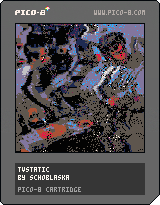
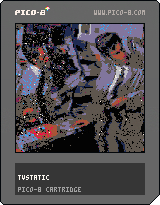
tweak tvstatic

Changed region(s): [[0.0938, 0.1171, 0.9062, 0.761], [0.0938, 0.7902, 0.4375, 0.878]]

diff --git a/docs/tvstatic.js b/docs/tvstatic.js
@@ -68,23 +68,23 @@ var _cartdat=[
 0,0,0,0,0,0,0,0,0,0,0,0,0,0,0,0,0,16,0,0,0,0,0,0,0,0,0,0,0,0,0,0,0,0,0,0,0,0,0,0,0,0,0,0,0,0,0,0,0,0,0,0,0,0,0,0,0,0,0,0,0,0,0,0,0,0,0,0,0,0,0,0,0,0,0,0,0,0,0,0,0,0,0,0,0,16,0,0,0,0,0,0,0,0,0,0,0,0,0,0,0,0,0,0,0,0,0,0,0,0,0,0,0,0,0,0,0,0,0,0,0,0,0,0,0,0,0,0,0,0,0,0,0,0,0,0,0,0,0,0,0,0,0,0,0,0,0,0,0,0,0,0,0,16,0,0,0,0,0,0,0,0,0,0,0,0,0,0,0,0,0,0,0,0,0,0,0,0,0,0,0,0,0,0,0,0,0,0,0,0,0,0,0,0,0,0,0,0,0,0,0,0,0,0,0,0,0,0,0,0,0,0,0,0,0,0,0,0,0,0,0,16,0,0,0,0,0,0,0,0,0,0,0,0,0,0,0,0,0,0,0,0,0,0,0,0,0,0,0,0,0,0,0,0,0,0,
 0,0,0,0,0,0,0,0,0,0,0,0,0,0,0,0,0,0,0,0,0,0,0,0,0,0,0,0,0,0,0,0,0,16,0,0,0,0,0,0,0,0,0,0,0,0,0,0,0,0,0,0,0,0,0,0,0,0,0,0,0,0,0,0,0,0,0,0,0,0,0,0,0,0,0,0,0,0,0,0,0,0,0,0,0,0,0,0,0,0,0,0,0,0,0,0,0,0,0,0,0,16,0,0,0,0,0,0,0,0,0,0,0,0,0,0,0,0,0,0,0,0,0,0,0,0,0,0,0,0,0,0,0,0,0,0,0,0,0,0,0,0,0,0,0,0,0,0,0,0,0,0,0,0,0,0,0,0,0,0,0,0,0,0,0,0,0,0,0,16,0,0,0,0,0,0,0,0,0,0,0,0,0,0,0,0,0,0,0,0,0,0,0,0,0,0,0,0,0,0,0,0,0,0,0,0,0,0,0,0,0,0,0,0,0,0,0,0,0,0,0,0,0,0,0,0,0,0,0,0,0,0,0,0,0,0,0,16,0,0,0,0,0,0,0,0,0,0,0,0,0,0,0,0,0,0,
 0,0,0,0,0,0,0,0,0,0,0,0,0,0,0,0,0,0,0,0,0,0,0,0,0,0,0,0,0,0,0,0,0,0,0,0,0,0,0,0,0,0,0,0,0,0,0,0,0,16,0,0,0,0,0,0,0,0,0,0,0,0,0,0,0,0,0,0,0,0,0,0,0,0,0,0,0,0,0,0,0,0,0,0,0,0,0,0,0,0,0,0,0,0,0,0,0,0,0,0,0,0,0,0,0,0,0,0,0,0,0,0,0,0,0,0,0,16,0,0,0,0,0,0,0,0,0,0,0,0,0,0,0,0,0,0,0,0,0,0,0,0,0,0,0,0,0,0,0,0,0,0,0,0,0,0,0,0,0,0,0,0,0,0,0,0,0,0,0,0,0,0,0,0,0,0,0,0,0,0,0,0,0,0,0,16,0,0,0,0,0,0,0,0,0,0,0,0,0,0,0,0,0,0,0,0,0,0,0,0,0,0,0,0,0,0,0,0,0,0,0,0,0,0,0,0,0,0,0,0,0,0,0,0,0,0,0,0,0,0,0,0,0,0,0,0,0,0,0,0,0,0,0,16,0,0,
-0,112,120,97,45,97,16,8,235,193,226,35,60,195,43,36,71,23,199,223,61,225,133,187,95,162,12,171,235,223,32,123,129,54,123,129,36,13,238,127,135,71,104,251,62,142,242,243,163,166,168,46,57,165,237,2,163,116,146,161,142,120,129,240,5,116,194,21,191,66,210,183,153,82,144,213,180,194,255,53,239,16,61,132,166,208,192,200,136,143,130,160,204,6,174,186,105,192,2,103,221,117,157,9,253,78,9,18,221,16,9,114,53,129,138,65,24,206,108,76,180,247,244,221,200,125,105,85,28,22,20,246,233,242,37,171,84,71,21,138,2,22,24,8,76,34,90,110,73,115,103,193,200,86,189,211,68,234,199,123,83,47,49,182,81,38,147,101,185,17,110,77,212,50,40,26,161,214,95,248,16,225,76,127,100,241,22,139,137,129,222,224,182,197,226,21,252,162,97,20,189,198,166,35,214,28,143,192,113,83,142,71,224,184,11,29,143,192,17,106,194,39,250,178,81,19,190,209,241,40,28,119,164,227,81,57,238,74,199,67,77,124,195,190,76,180,137,207,116,60,42,199,141,56,30,141,
-227,230,29,15,109,242,13,249,178,85,58,30,119,60,50,199,141,57,30,153,227,214,29,15,165,3,89,165,129,25,27,141,87,155,131,141,242,122,229,85,150,226,29,17,10,209,41,9,246,136,46,204,46,172,76,237,12,20,141,1,102,86,178,44,75,170,160,216,169,146,166,241,66,101,129,206,38,14,207,70,19,84,85,97,137,46,168,138,44,234,130,74,35,40,9,26,217,128,1,35,52,77,84,88,64,66,32,19,22,112,142,142,72,81,168,136,42,11,20,129,126,152,57,146,46,82,8,145,29,41,130,100,163,234,180,7,212,7,102,186,44,147,12,181,145,23,21,9,138,98,165,73,172,147,118,129,126,136,188,64,19,8,152,84,98,36,157,250,72,162,62,146,72,142,35,9,68,204,19,57,67,128,44,210,36,136,2,253,163,196,18,85,37,102,18,164,137,126,137,25,118,164,143,50,241,113,249,68,179,40,48,146,55,170,42,209,55,82,21,136,132,67,154,204,96,86,208,31,159,213,229,108,155,4,141,25,139,72,63,72,79,160,141,52,84,244,203,105,117,57,127,90,102,26,14,162,
-37,133,236,73,162,63,22,20,250,227,119,147,72,163,163,137,244,199,20,96,18,221,39,69,23,37,148,70,127,217,229,46,162,196,122,186,103,65,96,164,66,63,44,10,164,67,140,160,31,110,179,5,154,18,85,96,77,1,168,164,138,124,84,232,78,21,161,126,168,254,115,82,233,135,199,49,246,104,204,170,219,36,68,149,20,85,88,56,35,48,136,136,67,218,134,210,85,93,22,107,216,104,193,71,230,193,121,234,105,69,34,65,80,38,133,114,160,11,66,39,133,129,254,120,52,176,229,48,2,1,75,247,52,86,208,145,137,84,44,132,67,84,160,146,172,112,145,48,141,62,83,82,9,22,107,109,36,141,52,181,90,84,83,202,168,53,2,82,65,21,233,135,165,133,108,142,76,158,70,172,11,34,153,40,59,106,76,84,94,144,175,8,108,225,140,34,210,207,169,58,17,139,170,85,151,10,213,247,41,127,166,159,156,73,97,73,241,148,170,111,101,215,234,31,121,64,63,68,27,69,99,68,190,31,66,35,114,228,176,142,170,83,153,170,198,149,26,138,81,32,63,215,73,159,199,104,
-157,176,170,132,151,22,159,132,143,126,142,252,148,126,88,26,165,162,50,81,38,112,164,159,14,129,158,46,81,244,148,253,137,154,72,63,40,210,15,50,65,208,233,143,199,99,242,239,144,95,145,230,135,106,141,89,42,249,49,107,20,109,97,176,174,139,132,213,186,86,200,127,141,200,78,227,157,78,124,43,41,34,31,9,191,185,32,237,12,102,143,10,50,194,130,160,81,144,14,154,46,146,143,83,191,171,178,160,202,244,3,85,111,146,40,75,180,55,50,103,232,143,72,191,41,208,171,45,36,107,12,215,201,103,168,113,104,66,248,68,63,12,189,130,228,59,45,160,240,18,182,137,124,62,52,126,244,95,131,72,115,43,244,137,246,85,146,168,223,22,89,81,5,194,185,77,32,96,29,213,93,150,105,114,166,74,42,153,156,72,168,253,147,118,170,63,93,87,4,10,122,44,20,168,30,211,36,234,221,5,25,133,202,39,86,236,22,146,21,250,103,42,48,157,81,80,38,36,44,3,139,37,141,153,100,248,2,253,96,217,36,221,136,40,42,108,34,186,209,102,250,97,65,40,223,143,
-44,82,226,145,255,135,126,144,254,146,20,69,17,100,94,73,50,37,162,42,104,84,248,244,11,229,179,52,122,18,253,240,21,242,241,136,2,179,68,50,56,97,165,101,210,68,242,223,194,98,194,143,248,25,158,36,104,228,183,245,99,4,118,84,53,164,175,226,50,210,159,214,76,18,250,21,176,135,78,78,35,128,155,201,231,72,240,216,4,219,67,186,38,51,112,164,25,29,233,103,139,206,36,137,28,163,41,186,66,164,73,228,164,17,176,245,73,24,87,133,78,161,123,0,34,92,66,63,81,32,95,90,169,185,86,10,248,112,104,34,158,38,245,36,198,31,153,27,1,90,225,165,164,211,95,213,78,53,161,202,86,64,49,161,14,85,176,17,247,12,132,247,10,31,249,34,242,66,87,68,153,10,103,33,108,36,87,235,193,172,106,2,211,88,70,248,68,162,72,136,40,8,172,165,63,167,133,149,73,183,207,168,9,193,5,179,107,8,66,4,53,2,114,145,104,74,214,101,157,140,86,80,232,231,169,64,123,48,43,8,58,204,27,48,34,18,38,110,17,203,145,95,201,186,40,45,
-26,9,123,86,1,131,132,175,34,240,240,72,179,168,104,36,149,171,66,229,46,185,140,170,16,209,131,23,241,38,102,17,217,17,32,41,197,149,10,5,148,162,202,68,180,138,50,236,170,78,74,71,63,176,67,239,112,26,49,16,48,116,30,123,8,49,164,80,32,192,80,133,157,4,125,84,194,225,241,69,25,66,135,163,10,50,9,43,9,156,166,237,40,36,48,197,144,64,250,9,175,13,171,44,208,240,149,161,116,2,199,135,128,139,152,64,75,168,227,196,0,98,161,136,251,145,4,34,222,105,162,8,23,90,136,126,131,252,208,100,133,18,79,39,61,21,117,250,227,143,184,154,52,141,248,147,79,196,232,146,38,16,225,22,32,83,175,159,211,154,78,0,29,133,193,124,32,224,210,136,224,6,153,4,108,73,176,225,11,13,35,33,169,235,163,252,34,39,164,63,168,226,15,10,16,73,43,9,109,131,3,184,66,4,208,194,38,144,158,179,64,20,24,69,250,39,16,241,245,137,134,77,2,224,225,161,46,193,74,65,202,11,73,164,198,148,4,133,81,4,140,58,147,232,39,149,
-102,136,50,22,22,127,212,58,194,146,93,2,249,56,68,68,3,194,68,154,88,1,165,9,195,10,164,195,212,88,66,254,15,167,136,254,172,72,168,33,73,81,234,208,136,95,164,2,42,73,148,100,24,21,14,9,251,67,46,39,9,108,23,102,146,90,29,6,12,9,193,164,65,71,51,98,98,22,190,136,244,199,207,180,236,2,97,71,29,47,12,20,81,32,80,145,9,74,12,25,42,144,60,164,203,32,34,252,214,44,137,109,39,16,147,72,6,36,165,18,86,16,149,141,64,69,221,24,44,210,15,63,165,70,208,107,12,16,66,75,57,54,41,14,221,31,115,200,248,37,73,154,130,100,120,108,30,5,252,168,87,101,46,9,29,160,219,19,104,40,181,82,4,9,124,138,199,168,141,130,83,145,105,120,103,6,210,192,66,249,144,172,83,241,211,31,18,95,159,151,149,70,56,54,48,148,123,104,171,66,209,166,203,92,81,166,101,25,203,96,169,24,85,0,55,190,196,103,154,61,26,158,89,34,103,199,64,65,89,161,28,213,216,160,168,76,98,3,2,28,55,66,132,207,57,236,
-51,82,139,17,37,165,87,130,194,41,14,105,170,164,144,63,127,12,147,53,65,99,188,140,130,196,212,203,92,33,159,34,228,17,33,88,160,126,168,2,62,11,241,67,237,228,182,9,172,36,58,146,84,24,36,156,85,9,132,143,41,232,55,72,50,67,42,247,16,104,96,83,136,142,148,69,230,142,134,3,5,245,146,21,252,41,30,85,168,167,159,161,122,250,231,242,170,167,163,80,79,255,149,168,167,71,125,221,234,201,161,122,250,255,255,103,167,158,254,255,97,0,113,170,167,191,157,122,250,255,159,137,240,154,22,76,20,49,0,89,38,204,19,201,176,32,228,168,120,255,35,87,35,139,43,93,255,159,226,235,191,26,241,245,255,255,223,74,186,254,255,163,158,31,241,245,255,191,165,235,127,21,129,248,250,255,255,87,80,52,226,235,111,35,190,62,237,247,137,175,75,52,15,64,68,248,127,80,0,199,17,93,108,5,61,143,136,187,195,103,165,32,18,213,22,175,230,199,81,241,151,86,0,35,19,127,72,2,242,28,167,15,213,33,162,44,45,109,35,217,89,37,250,65,106,95,
-134,144,14,241,138,242,70,39,251,19,224,171,184,10,229,157,76,251,199,52,77,201,153,100,30,144,218,72,202,48,10,224,133,24,126,133,42,112,14,119,214,21,246,97,22,162,4,57,9,3,25,40,237,156,170,174,162,176,86,163,40,178,38,1,87,81,241,246,42,255,148,186,180,117,215,5,0,66,24,100,92,67,34,225,227,5,163,136,70,10,168,79,182,4,220,3,149,137,26,242,34,137,204,146,69,137,250,98,75,175,162,228,36,86,5,218,251,137,82,113,175,170,97,195,65,237,61,95,84,97,35,153,100,14,124,34,193,95,226,74,117,80,191,60,73,22,233,135,146,66,97,208,4,49,63,18,37,170,47,177,73,226,42,43,34,129,189,44,208,95,143,37,26,253,119,116,90,93,4,81,82,201,223,4,210,44,69,145,73,48,182,186,138,152,35,42,101,85,249,167,50,147,104,150,80,71,66,48,101,226,31,97,39,255,132,191,100,140,83,168,239,148,234,117,10,210,72,83,89,47,144,125,41,253,35,186,21,70,202,13,129,190,76,144,136,76,53,58,75,84,33,36,216,41,53,209,
-36,161,126,152,95,4,7,186,178,42,149,208,240,169,172,169,50,250,26,143,130,151,128,178,32,139,123,4,121,155,144,159,10,3,1,54,97,142,38,74,18,131,73,87,101,105,151,20,188,73,30,249,158,38,242,19,54,137,241,3,145,204,81,160,31,100,8,120,13,212,216,150,111,143,21,248,151,88,157,170,169,188,80,89,65,57,36,73,187,14,136,72,100,113,178,78,252,255,243,68,87,74,86,153,47,148,191,82,58,75,2,254,45,148,213,18,249,35,255,113,25,169,168,136,143,204,174,97,96,42,248,25,82,89,241,64,215,20,81,19,168,214,207,224,178,254,188,17,218,76,127,39,164,109,34,1,19,124,42,63,188,142,132,44,203,67,190,34,128,94,170,5,83,84,226,155,97,34,178,8,111,227,151,254,248,8,161,208,18,154,59,97,35,67,164,31,40,128,68,222,226,135,126,176,0,87,215,136,83,241,83,96,211,72,15,70,141,72,44,121,7,9,142,171,115,110,19,90,67,222,38,18,37,211,156,82,175,104,74,0,31,84,43,237,34,253,235,138,82,140,34,234,21,13,149,86,
-244,120,36,95,170,64,63,39,45,195,162,225,39,66,252,42,75,162,128,23,72,3,193,169,34,176,147,182,15,203,149,16,88,80,21,232,103,233,7,148,73,140,46,99,73,100,208,70,38,174,76,205,228,30,55,164,206,234,178,162,112,141,234,70,152,6,169,254,80,81,20,90,4,133,175,74,251,148,34,134,148,91,20,53,132,53,34,121,37,213,83,53,250,129,242,29,149,238,79,16,68,145,85,146,68,217,71,205,73,147,70,239,75,126,70,218,168,179,139,102,98,149,133,46,137,144,121,36,109,228,251,178,192,56,98,83,89,98,160,66,193,76,48,163,147,72,32,239,178,2,119,71,202,68,250,42,160,110,66,249,31,9,18,21,6,245,36,68,35,132,160,192,206,11,133,126,82,97,138,180,10,203,32,210,9,202,248,141,12,28,198,50,39,248,64,162,175,83,62,146,154,212,44,204,236,74,39,35,85,162,165,196,43,67,9,60,9,149,10,82,141,230,63,100,56,51,1,39,118,31,87,150,180,214,106,148,158,36,111,232,53,36,97,249,49,201,125,56,153,90,74,157,93,101,24,104,
-232,144,54,112,132,250,78,32,178,47,155,87,241,198,58,145,58,158,64,94,210,160,104,176,228,83,38,178,79,253,253,127,13,229,24,235,122,170,61,21,228,30,126,184,153,235,204,43,174,217,112,78,89,211,40,177,68,137,198,57,240,149,252,208,15,23,177,132,217,75,194,166,74,19,27,53,22,178,85,18,5,21,125,155,11,128,75,2,77,97,198,54,201,116,96,212,95,128,122,196,3,194,25,101,224,5,174,9,108,50,17,114,54,141,48,14,21,6,53,242,27,122,37,178,80,208,37,36,168,67,161,69,73,171,209,149,200,37,203,161,6,93,16,58,42,241,102,144,208,91,169,0,6,254,8,182,46,8,52,171,16,78,164,44,1,164,84,167,71,38,163,43,117,94,10,96,42,170,138,66,250,49,80,223,82,225,168,2,9,161,70,236,74,179,71,253,43,80,137,83,233,40,229,85,88,131,12,186,76,162,36,212,15,198,63,179,72,66,45,235,196,183,66,237,32,8,31,172,154,40,208,175,84,253,171,154,218,3,93,16,87,101,171,197,147,56,64,126,67,127,169,236,212,71,130,18,
-158,206,147,36,77,212,74,219,121,3,23,73,244,83,100,95,144,145,44,229,47,195,72,99,207,25,26,72,2,248,41,155,36,208,156,212,247,202,234,48,40,10,253,48,107,168,184,104,57,65,106,57,130,68,255,89,207,163,173,58,124,47,22,144,114,139,122,77,151,192,100,97,16,20,9,125,156,91,133,30,89,154,232,241,71,12,83,134,39,195,82,33,57,150,34,234,26,124,51,159,211,17,198,206,81,246,78,10,157,60,122,57,105,40,195,72,92,165,82,133,145,175,164,247,241,22,137,115,60,171,174,210,4,86,13,162,8,15,76,25,61,156,78,79,20,117,228,80,158,34,146,237,137,138,164,48,80,168,31,68,98,70,69,167,159,12,127,229,147,203,104,27,65,75,253,27,17,151,186,10,133,162,136,235,72,142,170,235,244,195,67,63,231,45,147,4,30,139,27,229,45,45,170,34,147,163,161,99,49,253,149,160,192,255,82,33,243,105,198,240,139,161,242,79,20,132,65,14,14,40,136,134,198,96,40,51,118,161,91,132,56,91,152,69,4,164,162,72,70,138,102,166,138,232,1,161,
-89,29,81,9,168,214,155,45,147,28,48,50,159,41,135,174,174,84,115,152,139,50,85,214,123,165,142,0,53,34,92,168,30,64,107,40,121,197,125,232,41,6,52,68,138,106,19,14,209,235,134,189,110,143,16,209,70,178,160,183,221,132,94,104,182,228,253,127,115,222,98,27,244,77,75,144,184,249,2,55,18,59,42,111,162,78,109,42,150,19,158,209,4,75,101,72,20,195,213,137,35,8,141,71,233,68,54,33,175,15,72,234,237,64,176,112,94,237,180,154,209,32,209,65,136,55,187,173,189,153,214,84,145,46,177,91,250,226,74,179,106,23,42,148,115,99,98,38,169,56,24,69,156,193,92,141,96,168,212,161,156,241,76,190,30,47,109,1,71,18,53,163,172,45,204,120,252,255,150,60,94,205,240,111,205,227,89,245,248,85,232,137,191,123,145,252,75,101,33,217,128,85,11,173,54,35,187,22,221,181,208,148,133,90,181,144,192,131,169,31,66,15,134,94,79,235,241,104,132,164,30,172,244,195,50,11,117,34,67,22,136,210,180,212,31,106,45,36,113,62,41,243,79,198,92,210,
-231,150,61,77,189,145,122,252,146,66,111,34,58,126,8,143,59,241,248,63,141,85,161,145,214,227,21,27,87,151,13,234,191,175,31,11,38,182,54,136,41,61,116,153,94,162,76,127,196,195,15,129,13,57,154,141,189,177,157,209,161,73,117,152,33,149,240,47,80,9,247,8,201,166,27,50,211,31,225,191,167,136,210,160,109,65,47,93,27,26,81,210,111,134,130,214,180,13,173,24,63,109,168,59,135,134,211,126,214,132,218,132,158,68,197,191,137,172,124,138,253,141,229,42,14,54,164,253,183,39,237,255,67,48,60,202,190,162,126,131,138,225,223,146,192,184,148,185,231,211,108,98,165,203,22,245,110,66,155,204,202,121,115,66,248,68,200,79,173,241,127,73,208,104,122,26,82,67,205,147,58,31,26,37,91,3,161,170,65,216,85,171,50,237,87,40,28,190,186,157,214,65,137,165,2,218,225,129,22,28,194,175,89,171,67,217,224,80,245,23,221,195,62,147,15,59,53,31,38,153,112,21,228,160,54,29,154,103,183,89,23,163,61,162,30,27,138,212,71,69,2,182,20,210,219,9,
-169,79,152,104,70,157,101,124,97,200,40,194,197,51,105,151,72,143,222,42,223,34,62,94,93,241,255,220,210,21,255,161,78,254,255,86,122,209,36,94,218,85,69,77,2,69,203,129,185,129,178,88,146,105,95,145,100,145,56,252,47,65,92,41,140,41,21,119,4,42,238,151,24,58,20,131,117,223,255,83,182,29,238,230,255,20,15,4,185,75,132,107,36,49,58,165,143,160,43,179,145,49,101,135,233,153,161,85,125,245,255,82,240,30,17,56,18,107,191,4,199,127,238,10,142,119,84,111,252,255,255,255,255,163,47,94,1,189,86,244,100,94,246,204,218,123,123,190,147,65,255,4,236,207,93,121,123,168,84,202,154,167,21,16,255,207,64,64,252,223,184,2,249,255,74,177,255,163,143,80,167,203,113,190,241,14,175,172,8,161,204,220,176,33,224,17,108,111,205,206,66,83,200,150,34,212,232,164,41,214,154,11,22,23,142,72,49,102,29,88,24,88,117,113,185,181,13,153,202,40,17,162,32,147,40,248,72,124,84,77,224,132,2,109,214,43,112,43,28,158,53,229,190,164,186,66,
-216,107,214,37,102,143,74,17,0,0,0,0,0,0,0,0,0,0,0,0,0,0,0,0,0,0,0,0,0,0,0,0,0,0,0,0,0,0,0,0,0,0,0,0,0,0,0,0,0,0,0,0,0,0,0,0,0,0,0,0,0,0,0,0,0,0,0,0,0,0,0,0,0,0,0,0,0,0,0,0,0,0,0,0,0,0,0,0,0,0,0,0,0,0,0,0,0,0,0,0,0,0,0,0,0,0,0,0,0,0,0,0,0,0,0,0,0,0,0,0,0,0,0,0,0,0,0,0,0,0,0,0,0,0,0,0,0,0,0,0,0,0,0,0,0,0,0,0,0,0,0,0,0,0,0,0,0,0,0,0,0,0,0,0,0,0,0,0,0,0,0,0,0,0,0,0,0,0,0,0,0,0,0,0,0,0,0,0,0,0,0,0,0,0,0,0,0,0,0,0,0,0,0,0,0,0,0,0,0,0,0,0,0,0,0,0,0,0,0,0,0,0,0,0,0,0,0,0,0,0,0,0,0,0,0,0,0,0,0,0,0,0,0,0,0,0,0,0,0,0,0,0,0,0,0,0,
+0,112,120,97,45,95,16,8,233,122,176,248,8,207,240,10,201,209,197,241,119,123,229,238,151,8,187,232,250,55,200,94,32,205,94,32,201,131,251,223,225,17,218,190,143,163,252,252,168,41,170,75,78,105,187,192,40,157,100,168,35,94,32,124,1,157,112,197,175,144,244,109,166,20,100,53,173,240,127,205,59,68,15,161,41,52,48,50,226,163,32,40,179,129,171,110,26,176,192,89,119,93,103,66,191,83,130,68,55,68,130,92,77,160,98,16,134,51,27,19,237,61,125,55,114,95,90,21,135,5,133,125,186,124,201,42,213,81,133,162,128,5,6,2,147,136,150,91,210,220,89,48,178,85,239,52,145,250,241,222,212,75,140,109,148,201,100,89,110,132,91,19,181,12,138,70,168,245,23,62,68,56,211,31,89,188,197,98,98,160,55,184,109,177,120,5,191,104,24,69,175,177,233,136,53,199,35,112,220,148,227,17,56,238,66,199,35,112,132,154,240,137,190,108,212,132,111,116,60,10,199,29,233,120,84,142,187,210,241,80,19,223,176,47,19,109,226,51,29,143,202,113,35,142,71,227,
+184,121,199,67,155,124,67,190,108,149,142,199,29,143,204,113,99,142,71,230,184,117,199,67,233,64,86,105,96,198,70,227,213,230,96,163,188,94,121,149,165,120,71,132,66,116,74,130,61,162,11,179,11,43,83,59,3,69,99,128,153,149,44,203,146,42,40,118,170,164,105,188,80,89,160,179,137,195,179,209,4,85,85,88,162,11,170,34,139,186,160,210,8,74,130,70,54,96,192,8,77,19,21,22,144,16,200,132,5,156,163,35,82,20,42,162,202,2,69,160,31,102,142,164,139,20,66,100,71,138,32,217,168,58,237,1,245,129,153,46,203,36,67,109,228,69,69,130,162,88,105,18,235,164,93,160,31,34,47,208,4,2,38,149,24,73,167,62,146,168,143,36,146,227,72,2,17,243,68,206,16,32,139,52,9,162,64,255,40,177,68,85,137,153,4,105,162,95,98,134,29,233,163,76,124,92,62,209,44,10,140,228,141,170,74,244,141,84,5,34,225,144,38,51,152,21,244,199,103,117,57,219,38,65,99,198,34,210,15,210,19,104,35,13,21,253,114,90,93,206,159,150,153,134,131,104,
+73,33,123,146,232,143,5,133,254,248,221,36,210,232,104,34,253,49,5,152,68,247,73,209,69,9,165,209,95,118,185,139,40,177,158,238,89,16,24,169,208,15,139,2,233,16,35,232,135,219,108,129,166,68,21,88,83,0,42,169,34,31,21,186,83,69,168,31,170,255,156,84,250,225,113,140,61,26,179,234,54,9,81,37,69,21,22,206,8,12,34,226,144,182,161,116,85,151,197,26,54,90,240,145,121,112,158,122,90,145,72,16,148,73,161,28,232,130,208,73,97,160,63,30,13,108,57,140,64,192,210,61,141,21,116,100,34,21,11,225,16,21,168,36,43,92,36,76,163,207,148,84,130,197,90,27,73,35,77,173,22,213,148,50,106,141,128,84,80,69,250,97,105,33,155,35,147,167,17,235,130,72,38,202,142,26,19,149,23,228,43,2,91,56,163,136,244,115,170,78,196,162,106,213,165,66,245,125,202,159,233,39,103,82,88,82,60,165,234,91,217,181,250,71,30,208,15,209,70,209,24,145,239,135,208,136,28,57,172,163,234,84,166,170,113,165,134,98,20,200,207,117,210,231,49,90,
+39,172,42,225,165,197,39,225,163,159,35,63,165,31,150,70,169,168,76,148,9,28,233,167,67,160,167,75,20,61,101,127,162,38,210,15,138,244,131,76,16,116,250,227,241,152,252,59,228,87,164,249,161,90,99,150,74,126,204,26,69,91,24,172,235,34,97,181,174,21,242,95,35,178,211,120,167,19,223,74,138,200,71,194,111,46,72,59,131,217,163,130,140,176,32,104,20,164,131,166,139,228,227,212,239,170,44,168,50,253,64,213,155,36,202,18,237,141,204,25,250,35,210,111,10,244,106,11,201,26,195,117,242,25,106,28,154,16,62,209,15,67,175,32,249,78,11,40,188,132,109,34,159,15,141,31,253,215,32,210,220,10,125,162,125,149,36,234,183,69,86,84,129,112,110,19,8,88,71,117,151,101,154,156,169,146,74,38,39,18,106,255,164,157,234,79,215,21,129,130,30,11,5,170,199,52,137,122,119,65,70,161,242,137,21,187,133,100,133,254,153,10,76,103,20,148,9,9,203,192,98,73,99,38,25,190,64,63,88,54,73,55,34,138,10,155,136,110,180,153,126,88,16,202,247,35,
+139,148,120,228,255,161,31,164,191,36,69,81,4,153,87,146,76,137,168,10,26,21,62,253,66,249,44,141,158,68,63,124,133,124,60,162,192,44,145,12,78,88,105,153,52,145,252,183,176,152,240,35,126,134,39,9,26,249,109,253,24,129,29,85,13,233,171,184,140,244,167,53,147,132,126,5,236,161,147,211,8,224,102,242,57,18,60,54,193,246,144,174,201,12,28,105,70,71,250,217,162,51,73,34,199,104,138,174,16,105,18,57,105,4,108,125,18,198,85,161,83,232,30,128,8,151,208,79,20,200,151,86,106,174,149,2,62,28,154,136,167,73,61,137,241,71,230,70,128,86,120,41,233,244,87,181,83,77,168,178,21,80,76,168,67,21,108,196,61,3,225,189,194,71,190,136,188,208,21,81,166,194,89,8,27,201,213,122,48,171,154,192,52,150,17,62,145,40,18,34,10,2,107,233,207,105,97,101,210,237,51,106,66,112,193,236,26,130,16,65,141,128,92,36,154,146,117,89,39,163,21,20,250,121,42,208,30,204,10,130,14,243,6,140,136,132,137,91,196,114,228,87,178,46,74,139,
+70,194,158,85,192,32,225,171,8,60,60,210,44,42,26,73,229,170,80,185,75,46,163,42,68,244,224,69,188,137,89,68,118,4,72,74,113,165,66,1,165,168,50,17,173,162,12,187,170,147,210,209,15,236,208,59,156,70,12,4,12,157,199,30,66,12,41,20,8,48,84,97,39,65,31,149,112,120,124,81,134,208,225,168,130,76,194,74,2,167,105,59,10,9,76,49,36,144,126,194,107,195,42,11,52,124,101,40,157,192,241,33,224,34,38,208,18,234,56,49,128,88,40,226,126,36,129,136,119,154,40,194,133,22,162,223,32,63,52,89,161,196,211,73,79,69,157,254,248,35,174,38,77,35,254,228,19,49,186,164,9,68,184,5,200,212,235,231,180,166,19,64,71,97,48,31,8,184,52,34,184,65,38,1,91,18,108,248,66,195,72,72,234,250,40,191,200,9,233,15,170,248,131,2,68,210,74,66,219,224,0,174,16,1,180,176,9,164,231,44,16,5,70,145,254,9,68,124,125,162,97,147,0,120,120,168,75,176,82,144,242,66,18,169,49,37,65,97,20,1,163,206,36,250,73,165,
+25,162,140,133,197,31,181,142,176,100,151,64,62,14,17,209,128,48,145,38,86,64,105,194,176,2,233,48,53,150,144,255,195,41,162,63,43,18,106,72,82,148,58,52,226,23,169,128,74,18,37,25,70,133,67,194,254,144,203,73,2,219,133,153,164,86,135,1,67,66,48,105,208,209,140,152,152,133,47,34,253,241,51,45,187,64,216,81,199,11,3,69,20,8,84,100,130,18,67,134,10,36,15,233,50,136,8,191,53,75,98,219,9,196,36,146,1,73,169,132,21,68,101,35,80,81,55,6,139,244,195,79,169,17,244,26,3,132,208,82,142,77,138,67,247,199,28,50,126,73,146,166,32,25,30,155,71,1,63,234,85,153,75,66,7,232,246,4,26,74,173,20,65,2,159,226,49,106,163,224,84,100,26,222,153,129,52,176,80,62,36,235,84,252,244,135,196,215,231,101,165,17,142,13,12,229,30,218,170,80,180,233,50,87,148,105,89,198,50,88,42,70,21,192,141,47,241,153,102,143,134,103,150,200,217,49,80,80,86,40,71,53,54,40,42,147,216,128,0,199,141,16,225,115,14,251,
+140,212,98,68,73,233,149,160,112,138,67,154,42,41,228,207,31,195,100,77,208,24,47,163,32,49,245,50,87,200,167,8,121,68,8,22,168,31,170,128,207,66,252,80,59,185,109,2,43,137,142,36,21,6,9,103,85,2,225,99,10,250,13,146,204,144,202,61,4,26,216,20,162,35,101,145,185,163,225,64,65,189,100,5,127,138,71,21,234,233,103,168,158,254,185,188,234,233,40,212,211,127,37,234,233,81,95,183,122,114,168,158,254,255,255,217,169,167,255,127,24,64,156,234,233,111,167,158,254,255,103,34,188,166,5,19,69,12,64,150,9,243,68,50,44,8,57,42,222,255,200,213,200,226,74,215,255,167,248,250,175,70,124,253,255,255,183,146,174,255,255,168,231,71,124,253,255,111,233,250,95,69,32,190,254,255,255,21,20,141,248,250,219,136,175,79,251,125,226,235,18,205,3,16,17,254,31,20,192,113,68,23,91,65,207,35,226,238,240,89,41,136,68,181,197,171,249,113,84,252,165,21,192,200,196,31,146,128,60,199,233,67,117,136,40,75,75,219,72,118,86,137,126,144,218,151,
+33,164,67,188,162,188,209,201,254,4,248,42,174,66,121,39,211,254,49,77,83,114,38,153,7,164,54,146,50,140,2,120,33,134,95,161,10,156,195,157,117,133,125,152,133,40,65,78,194,64,6,74,59,167,170,171,40,172,213,40,138,172,73,192,85,84,188,189,202,63,165,46,109,221,117,1,128,16,6,25,215,144,72,248,120,193,40,162,145,2,234,147,45,1,247,64,101,162,134,188,72,34,179,100,81,162,190,216,210,171,40,57,137,85,129,246,126,162,84,220,171,106,216,112,80,123,207,23,85,216,72,38,153,3,159,72,240,151,184,82,29,212,47,79,146,69,250,161,164,80,24,52,65,204,143,68,137,234,75,108,146,184,202,138,72,96,47,11,244,215,99,137,70,255,29,157,86,23,65,148,84,242,55,129,52,75,81,100,18,140,173,174,34,230,136,74,89,85,254,169,204,36,154,37,212,145,16,76,153,248,71,216,201,63,225,47,25,227,20,234,59,165,122,157,130,52,210,84,214,11,100,95,74,255,136,110,133,145,114,67,160,47,19,36,34,83,141,206,18,85,8,9,118,74,77,52,
+73,168,31,230,23,193,129,174,172,74,37,52,124,42,107,170,140,190,198,163,224,37,160,44,200,226,30,65,222,38,228,167,194,64,128,77,152,163,137,146,196,96,210,85,89,218,37,5,111,146,71,190,167,137,252,132,77,98,252,64,36,115,20,232,7,25,2,94,3,53,182,229,219,99,5,254,37,86,167,106,42,47,84,86,80,14,73,210,174,3,34,18,89,156,172,19,255,255,60,209,149,146,85,230,11,229,175,148,206,146,128,127,11,101,181,68,254,200,127,92,70,42,42,226,35,179,107,24,152,10,126,134,84,86,60,208,53,69,212,4,170,245,51,184,172,63,111,132,54,211,223,9,105,155,72,192,4,159,202,15,175,35,33,203,242,144,175,8,160,151,106,193,20,149,248,102,152,136,44,194,219,248,165,63,62,66,40,180,132,230,78,216,200,16,233,7,10,32,145,183,248,161,31,44,192,213,53,226,84,252,20,216,52,210,131,81,35,18,75,222,65,130,227,234,156,219,132,214,144,183,137,68,201,52,167,212,43,154,18,192,7,213,74,187,72,255,186,162,20,163,136,122,69,67,165,21,
+61,30,201,151,42,208,207,73,203,176,104,248,137,16,191,202,146,40,224,5,210,64,112,170,8,236,164,237,195,114,37,4,22,84,5,250,89,250,1,101,18,163,203,88,18,25,180,145,137,43,83,51,185,199,13,169,179,186,172,40,92,163,186,17,166,65,170,63,84,20,133,22,65,225,171,210,62,165,136,33,229,22,69,13,97,141,72,94,73,245,84,141,126,160,124,71,165,251,19,4,81,100,149,36,81,246,81,115,210,164,209,251,146,159,145,54,234,236,162,153,88,101,161,75,34,100,30,73,27,249,190,44,48,142,216,84,150,24,168,80,48,19,204,232,36,18,200,187,172,192,221,145,50,145,190,10,168,155,80,254,71,130,68,133,65,61,9,209,8,33,40,176,243,66,161,159,84,152,34,173,194,50,136,116,130,50,126,35,3,135,177,204,9,62,144,232,235,148,143,164,38,53,11,51,187,210,201,72,149,104,41,241,202,80,2,79,66,165,130,84,163,249,15,25,206,76,192,137,221,199,149,37,173,181,26,165,39,201,27,122,13,73,88,126,76,114,31,78,166,150,82,103,87,25,6,26,
+58,164,13,28,161,190,19,136,236,203,230,85,188,177,78,164,142,39,144,151,52,40,26,44,249,148,137,236,83,127,255,95,67,57,198,186,158,106,79,5,185,135,31,110,230,58,243,138,107,54,156,83,214,52,74,44,81,162,113,14,124,37,63,244,195,69,44,97,246,146,176,169,210,196,70,141,133,108,149,68,65,69,223,230,2,224,146,64,83,152,177,77,50,29,24,245,23,160,30,241,128,112,70,25,120,129,107,2,155,76,132,156,77,35,140,67,133,65,141,252,134,94,137,44,20,116,9,9,234,80,104,81,210,106,116,37,114,201,114,168,65,23,132,142,74,188,25,36,244,86,42,128,129,63,130,173,11,2,205,42,132,19,41,75,0,41,213,233,145,201,232,74,157,151,2,152,138,170,162,144,126,12,212,183,84,56,170,64,66,168,17,187,210,236,81,255,10,84,226,84,58,74,121,21,214,32,131,46,147,40,9,245,131,241,207,44,146,80,203,58,241,173,80,59,8,194,7,171,38,10,244,43,85,255,170,166,246,64,23,196,85,217,106,241,36,14,144,223,208,95,42,59,245,145,160,132,
+167,243,36,73,19,181,210,118,222,192,69,18,253,20,217,23,100,36,75,249,203,48,210,216,115,134,6,146,0,126,202,38,9,52,39,245,189,178,58,12,138,66,63,204,26,42,46,90,78,144,90,142,32,209,127,214,243,104,171,14,223,139,5,164,220,162,94,211,37,48,89,24,4,69,66,31,231,86,161,71,150,38,122,252,17,195,148,225,201,176,84,72,142,165,136,186,6,223,204,231,116,132,177,115,148,189,147,66,39,143,94,78,26,202,48,18,87,169,84,97,228,43,233,125,188,69,226,28,207,170,171,52,129,85,131,40,194,3,83,70,15,167,211,19,69,29,57,148,167,136,100,123,162,34,41,12,20,234,7,145,152,81,209,233,39,195,95,249,228,50,218,70,208,82,255,70,196,165,174,66,161,40,226,58,146,163,234,58,253,240,208,207,121,203,36,129,199,226,70,121,75,139,170,200,228,104,232,88,76,127,37,40,240,191,84,200,124,154,49,252,98,168,252,19,5,97,144,131,3,10,162,161,49,24,202,140,93,232,22,33,206,22,102,17,1,169,40,146,145,162,153,169,34,122,64,104,
+86,71,84,2,170,245,102,203,36,7,140,204,103,202,161,171,43,213,28,230,162,76,149,245,94,169,35,64,141,8,23,170,7,208,26,74,94,113,31,122,138,1,13,145,162,218,132,67,244,186,97,175,219,35,68,180,145,44,232,109,55,161,23,154,45,121,255,223,156,183,216,6,125,211,18,36,110,190,192,141,196,142,202,155,168,83,155,138,229,132,103,52,193,82,25,18,197,112,117,226,8,66,227,81,58,145,77,200,235,3,146,122,59,16,44,156,87,59,173,102,52,72,116,16,226,205,110,107,111,166,53,85,164,75,236,150,190,184,210,172,218,133,10,229,220,152,152,73,42,14,70,17,103,48,87,35,24,42,117,40,103,60,147,175,199,75,91,192,145,68,205,40,107,11,51,30,255,191,37,143,87,51,252,91,243,120,86,61,126,21,122,226,239,94,36,255,82,89,72,54,96,213,66,171,205,200,174,69,119,45,52,101,161,86,45,36,240,96,234,135,208,131,161,215,211,122,60,26,33,169,7,43,253,176,204,66,157,200,144,5,162,52,45,245,135,90,11,73,156,79,202,252,147,49,151,244,
+185,101,79,83,111,164,30,191,164,208,155,136,142,31,194,227,78,60,254,79,99,85,104,164,245,120,197,198,213,101,131,250,239,235,199,130,137,173,13,98,74,15,93,166,151,40,211,31,241,240,67,96,67,142,102,99,111,108,103,116,104,82,29,102,72,37,252,11,84,194,61,66,178,233,134,204,244,71,248,239,41,162,52,104,91,208,75,215,134,70,148,244,155,161,160,53,109,67,43,198,79,27,234,206,161,225,180,159,53,161,54,161,39,81,241,111,34,43,159,98,127,99,185,138,131,13,105,255,237,73,251,255,16,12,143,178,175,168,223,160,98,248,183,36,48,46,101,238,249,52,155,88,233,178,69,189,155,208,38,179,114,222,156,16,62,17,242,83,107,252,95,18,52,154,158,134,212,80,243,164,206,135,70,201,214,64,168,106,16,118,213,170,76,251,21,10,135,175,110,167,117,80,148,74,210,225,129,20,28,194,175,89,171,67,217,224,80,245,23,221,195,60,147,15,59,181,30,38,153,112,21,228,160,54,29,154,103,183,89,23,163,61,162,30,27,138,212,71,69,2,182,20,210,219,9,169,
+79,152,104,69,157,101,124,97,199,40,194,197,43,105,151,72,143,222,42,223,34,62,94,93,241,255,156,210,21,255,161,78,254,255,86,122,209,36,30,218,85,69,77,2,69,203,129,185,129,178,88,146,105,95,145,100,145,56,252,47,65,92,41,140,53,21,119,4,42,238,151,24,58,20,131,117,223,255,83,182,29,238,230,255,20,15,4,185,75,132,107,36,49,58,165,143,160,43,179,145,49,101,135,233,25,109,119,203,182,63,2,222,19,250,70,90,237,151,222,248,207,93,189,241,6,122,227,255,255,255,255,159,77,173,122,234,231,149,154,39,243,170,103,214,158,155,243,157,10,250,37,95,127,206,138,219,67,163,82,213,252,143,252,253,89,234,135,255,155,221,21,32,255,79,33,246,127,232,17,234,116,57,206,55,222,1,151,21,25,148,149,27,38,212,59,130,233,169,217,89,98,10,153,146,131,218,92,52,197,88,115,193,224,196,17,41,195,172,131,9,3,171,46,46,167,182,9,83,153,35,66,228,99,18,249,30,125,143,170,9,156,80,112,205,122,213,109,133,195,51,38,219,151,84,87,168,
+122,173,186,196,236,81,41,2,0,0,0,0,0,0,0,0,0,0,0,0,0,0,0,0,0,0,0,0,0,0,0,0,0,0,0,0,0,0,0,0,0,0,0,0,0,0,0,0,0,0,0,0,0,0,0,0,0,0,0,0,0,0,0,0,0,0,0,0,0,0,0,0,0,0,0,0,0,0,0,0,0,0,0,0,0,0,0,0,0,0,0,0,0,0,0,0,0,0,0,0,0,0,0,0,0,0,0,0,0,0,0,0,0,0,0,0,0,0,0,0,0,0,0,0,0,0,0,0,0,0,0,0,0,0,0,0,0,0,0,0,0,0,0,0,0,0,0,0,0,0,0,0,0,0,0,0,0,0,0,0,0,0,0,0,0,0,0,0,0,0,0,0,0,0,0,0,0,0,0,0,0,0,0,0,0,0,0,0,0,0,0,0,0,0,0,0,0,0,0,0,0,0,0,0,0,0,0,0,0,0,0,0,0,0,0,0,0,0,0,0,0,0,0,0,0,0,0,0,0,0,0,0,0,0,0,0,0,0,0,0,0,0,0,0,0,0,0,0,0,0,0,0,0,0,0,0,
 0,0,0,0,0,0,0,0,0,0,0,0,0,0,0,0,0,0,0,0,0,0,0,0,0,0,0,0,0,0,0,0,0,0,0,0,0,0,0,0,0,0,0,0,0,0,0,0,0,0,0,0,0,0,0,0,0,0,0,0,0,0,0,0,0,0,0,0,0,0,0,0,0,0,0,0,0,0,0,0,0,0,0,0,0,0,0,0,0,0,0,0,0,0,0,0,0,0,0,0,0,0,0,0,0,0,0,0,0,0,0,0,0,0,0,0,0,0,0,0,0,0,0,0,0,0,0,0,0,0,0,0,0,0,0,0,0,0,0,0,0,0,0,0,0,0,0,0,0,0,0,0,0,0,0,0,0,0,0,0,0,0,0,0,0,0,0,0,0,0,0,0,0,0,0,0,0,0,0,0,0,0,0,0,0,0,0,0,0,0,0,0,0,0,0,0,0,0,0,0,0,0,0,0,0,0,0,0,0,0,0,0,0,0,0,0,0,0,0,0,0,0,0,0,0,0,0,0,0,0,0,0,0,0,0,0,0,0,0,0,0,0,0,0,0,0,0,0,0,0,0,0,0,0,0,0,
 0,0,0,0,0,0,0,0,0,0,0,0,0,0,0,0,0,0,0,0,0,0,0,0,0,0,0,0,0,0,0,0,0,0,0,0,0,0,0,0,0,0,0,0,0,0,0,0,0,0,0,0,0,0,0,0,0,0,0,0,0,0,0,0,0,0,0,0,0,0,0,0,0,0,0,0,0,0,0,0,0,0,0,0,0,0,0,0,0,0,0,0,0,0,0,0,0,0,0,0,0,0,0,0,0,0,0,0,0,0,0,0,0,0,0,0,0,0,0,0,0,0,0,0,0,0,0,0,0,0,0,0,0,0,0,0,0,0,0,0,0,0,0,0,0,0,0,0,0,0,0,0,0,0,0,0,0,0,0,0,0,0,0,0,0,0,0,0,0,0,0,0,0,0,0,0,0,0,0,0,0,0,0,0,0,0,0,0,0,0,0,0,0,0,0,0,0,0,0,0,0,0,0,0,0,0,0,0,0,0,0,0,0,0,0,0,0,0,0,0,0,0,0,0,0,0,0,0,0,0,0,0,0,0,0,0,0,0,0,0,0,0,0,0,0,0,0,0,0,0,0,0,0,0,0,0,
 0,0,0,0,0,0,0,0,0,0,0,0,0,0,0,0,0,0,0,0,0,0,0,0,0,0,0,0,0,0,0,0,0,0,0,0,0,0,0,0,0,0,0,0,0,0,0,0,0,0,0,0,0,0,0,0,0,0,0,0,0,0,0,0,0,0,0,0,0,0,0,0,0,0,0,0,0,0,0,0,0,0,0,0,0,0,0,0,0,0,0,0,0,0,0,0,0,0,0,0,0,0,0,0,0,0,0,0,0,0,0,0,0,0,0,0,0,0,0,0,0,0,0,0,0,0,0,0,0,0,0,0,0,0,0,0,0,0,0,0,0,0,0,0,0,0,0,0,0,0,0,0,0,0,0,0,0,0,0,0,0,0,0,0,0,0,0,0,0,0,0,0,0,0,0,0,0,0,0,0,0,0,0,0,0,0,0,0,0,0,0,0,0,0,0,0,0,0,0,0,0,0,0,0,0,0,0,0,0,0,0,0,0,0,0,0,0,0,0,0,0,0,0,0,0,0,0,0,0,0,0,0,0,0,0,0,0,0,0,0,0,0,0,0,0,0,0,0,0,0,0,0,0,0,0,0,

diff --git a/docs/tvstatic.html b/docs/tvstatic.html
@@ -982,7 +982,7 @@ canvas{
 
 .p8_start_button{
 	cursor:pointer;
[2 lines of base64/hex data omitted]
 	-repeat center;
 	-webkit-background-size:cover; -moz-background-size:cover; -o-background-size:cover; background-size:cover;
 }
